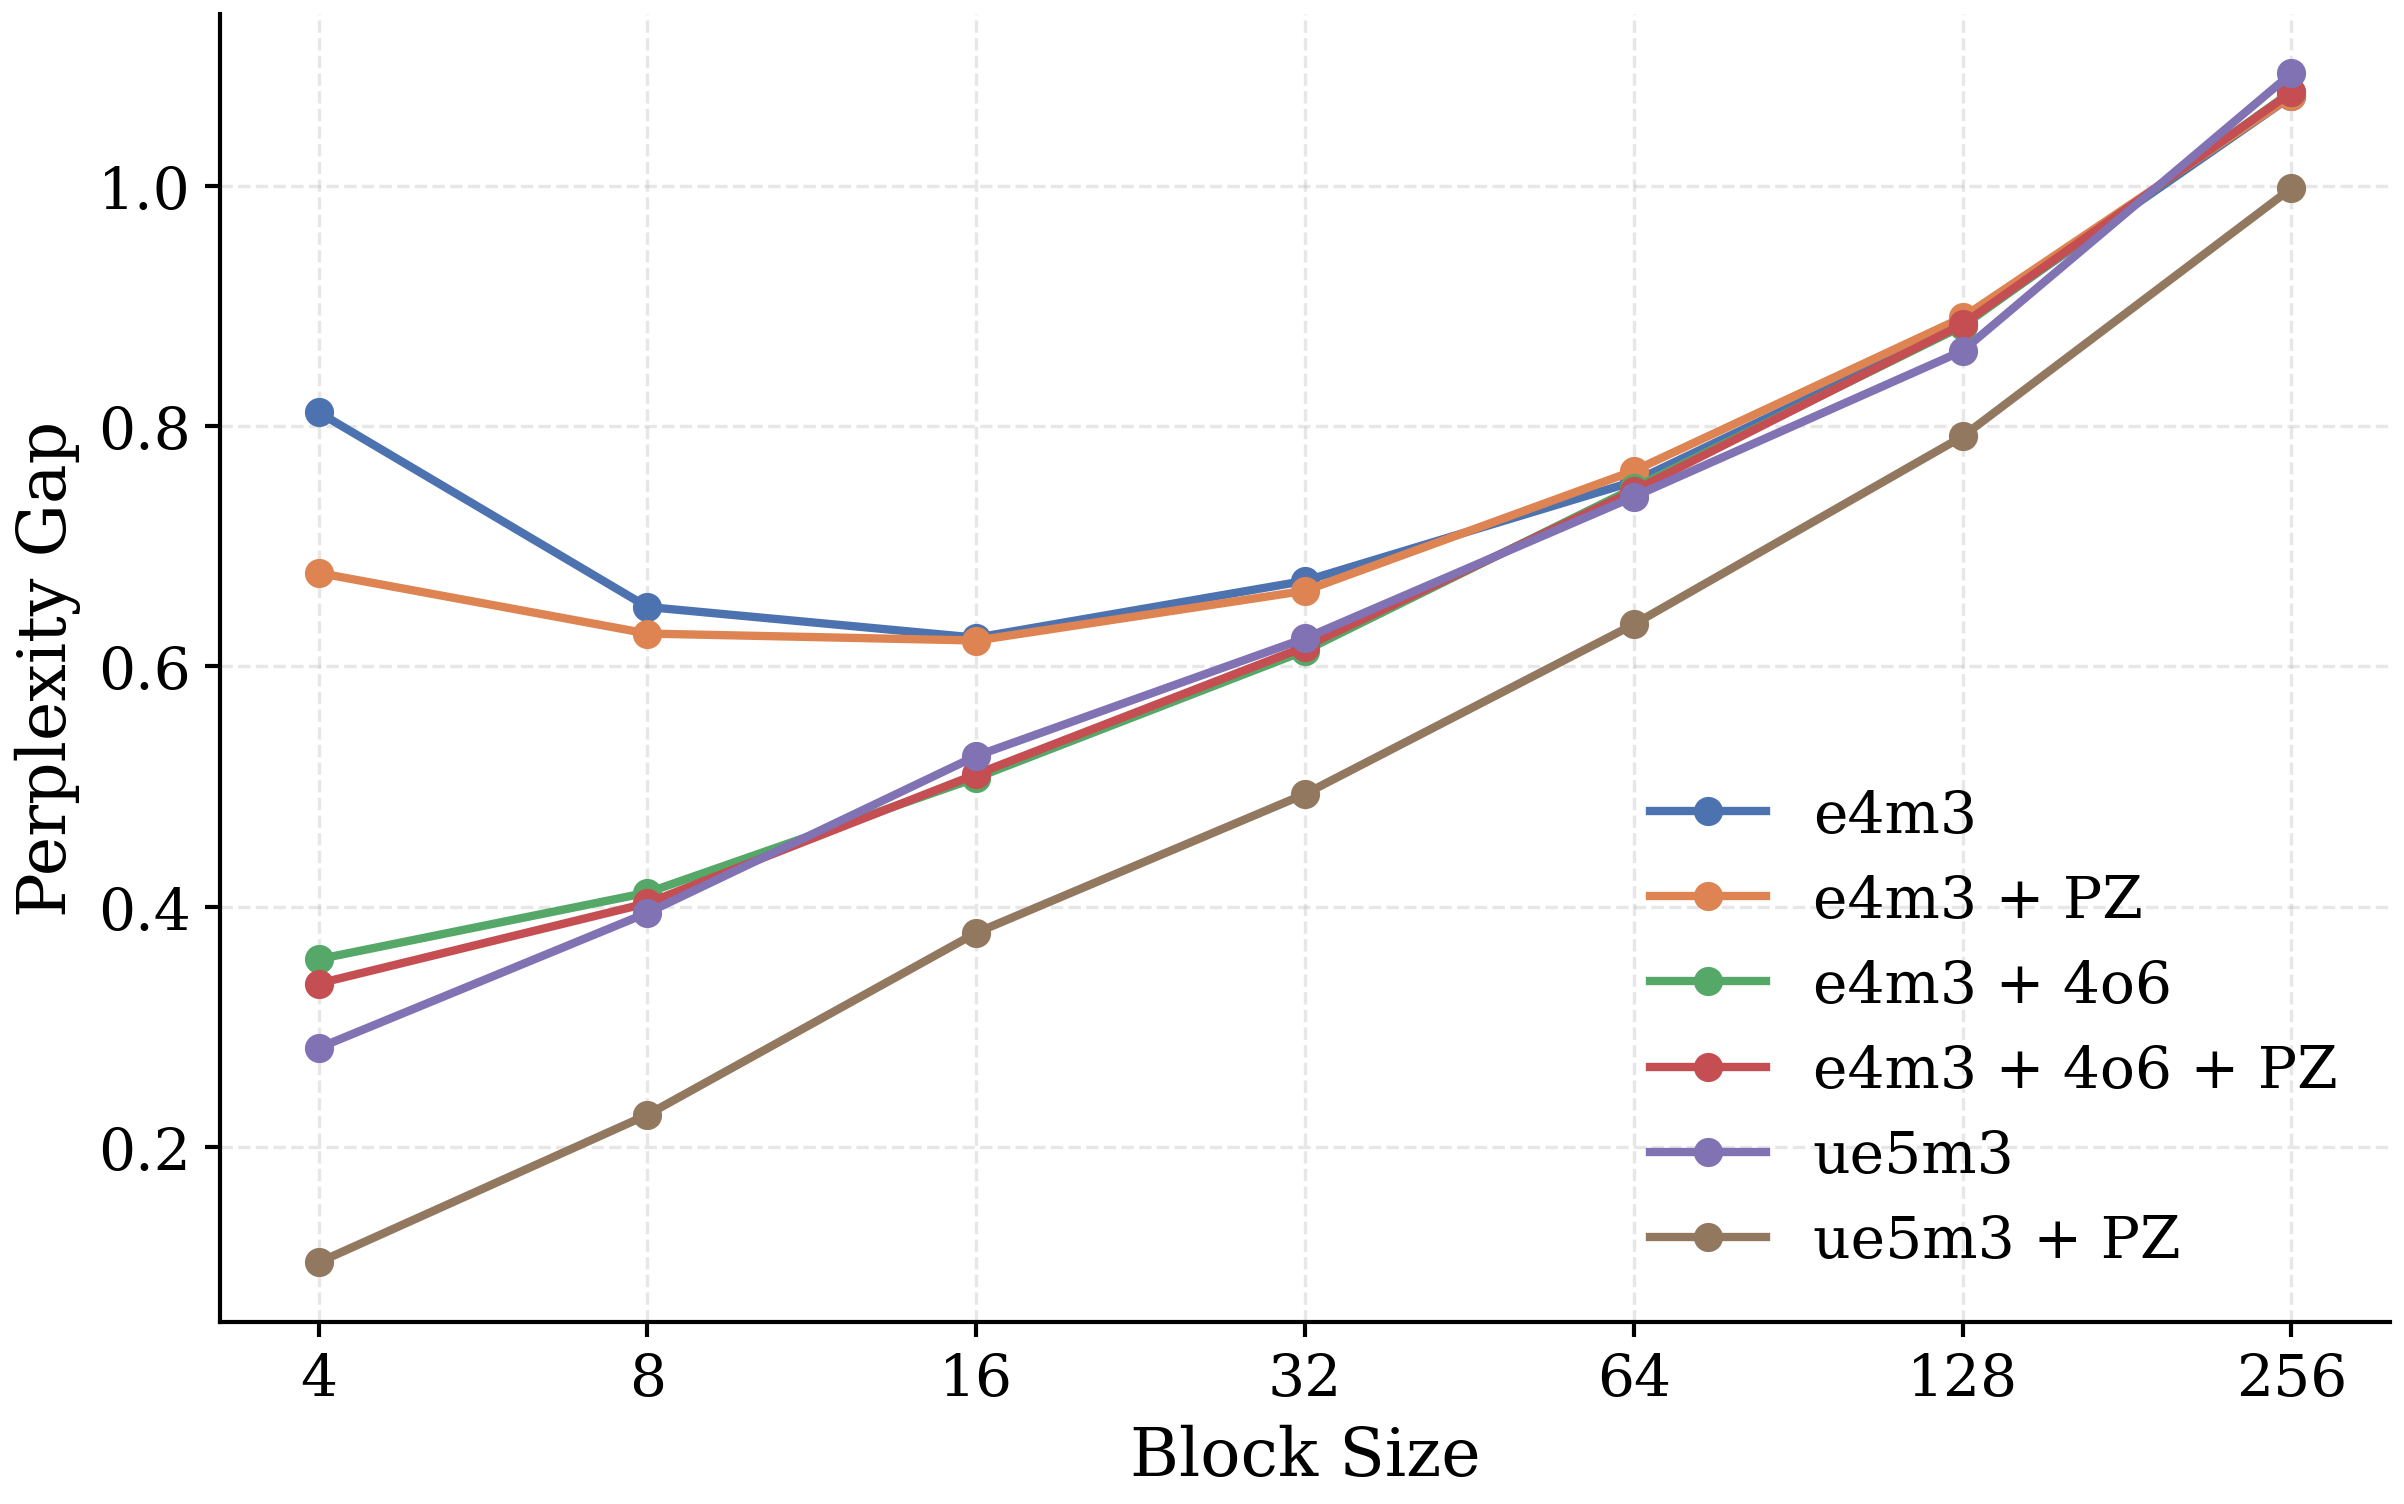
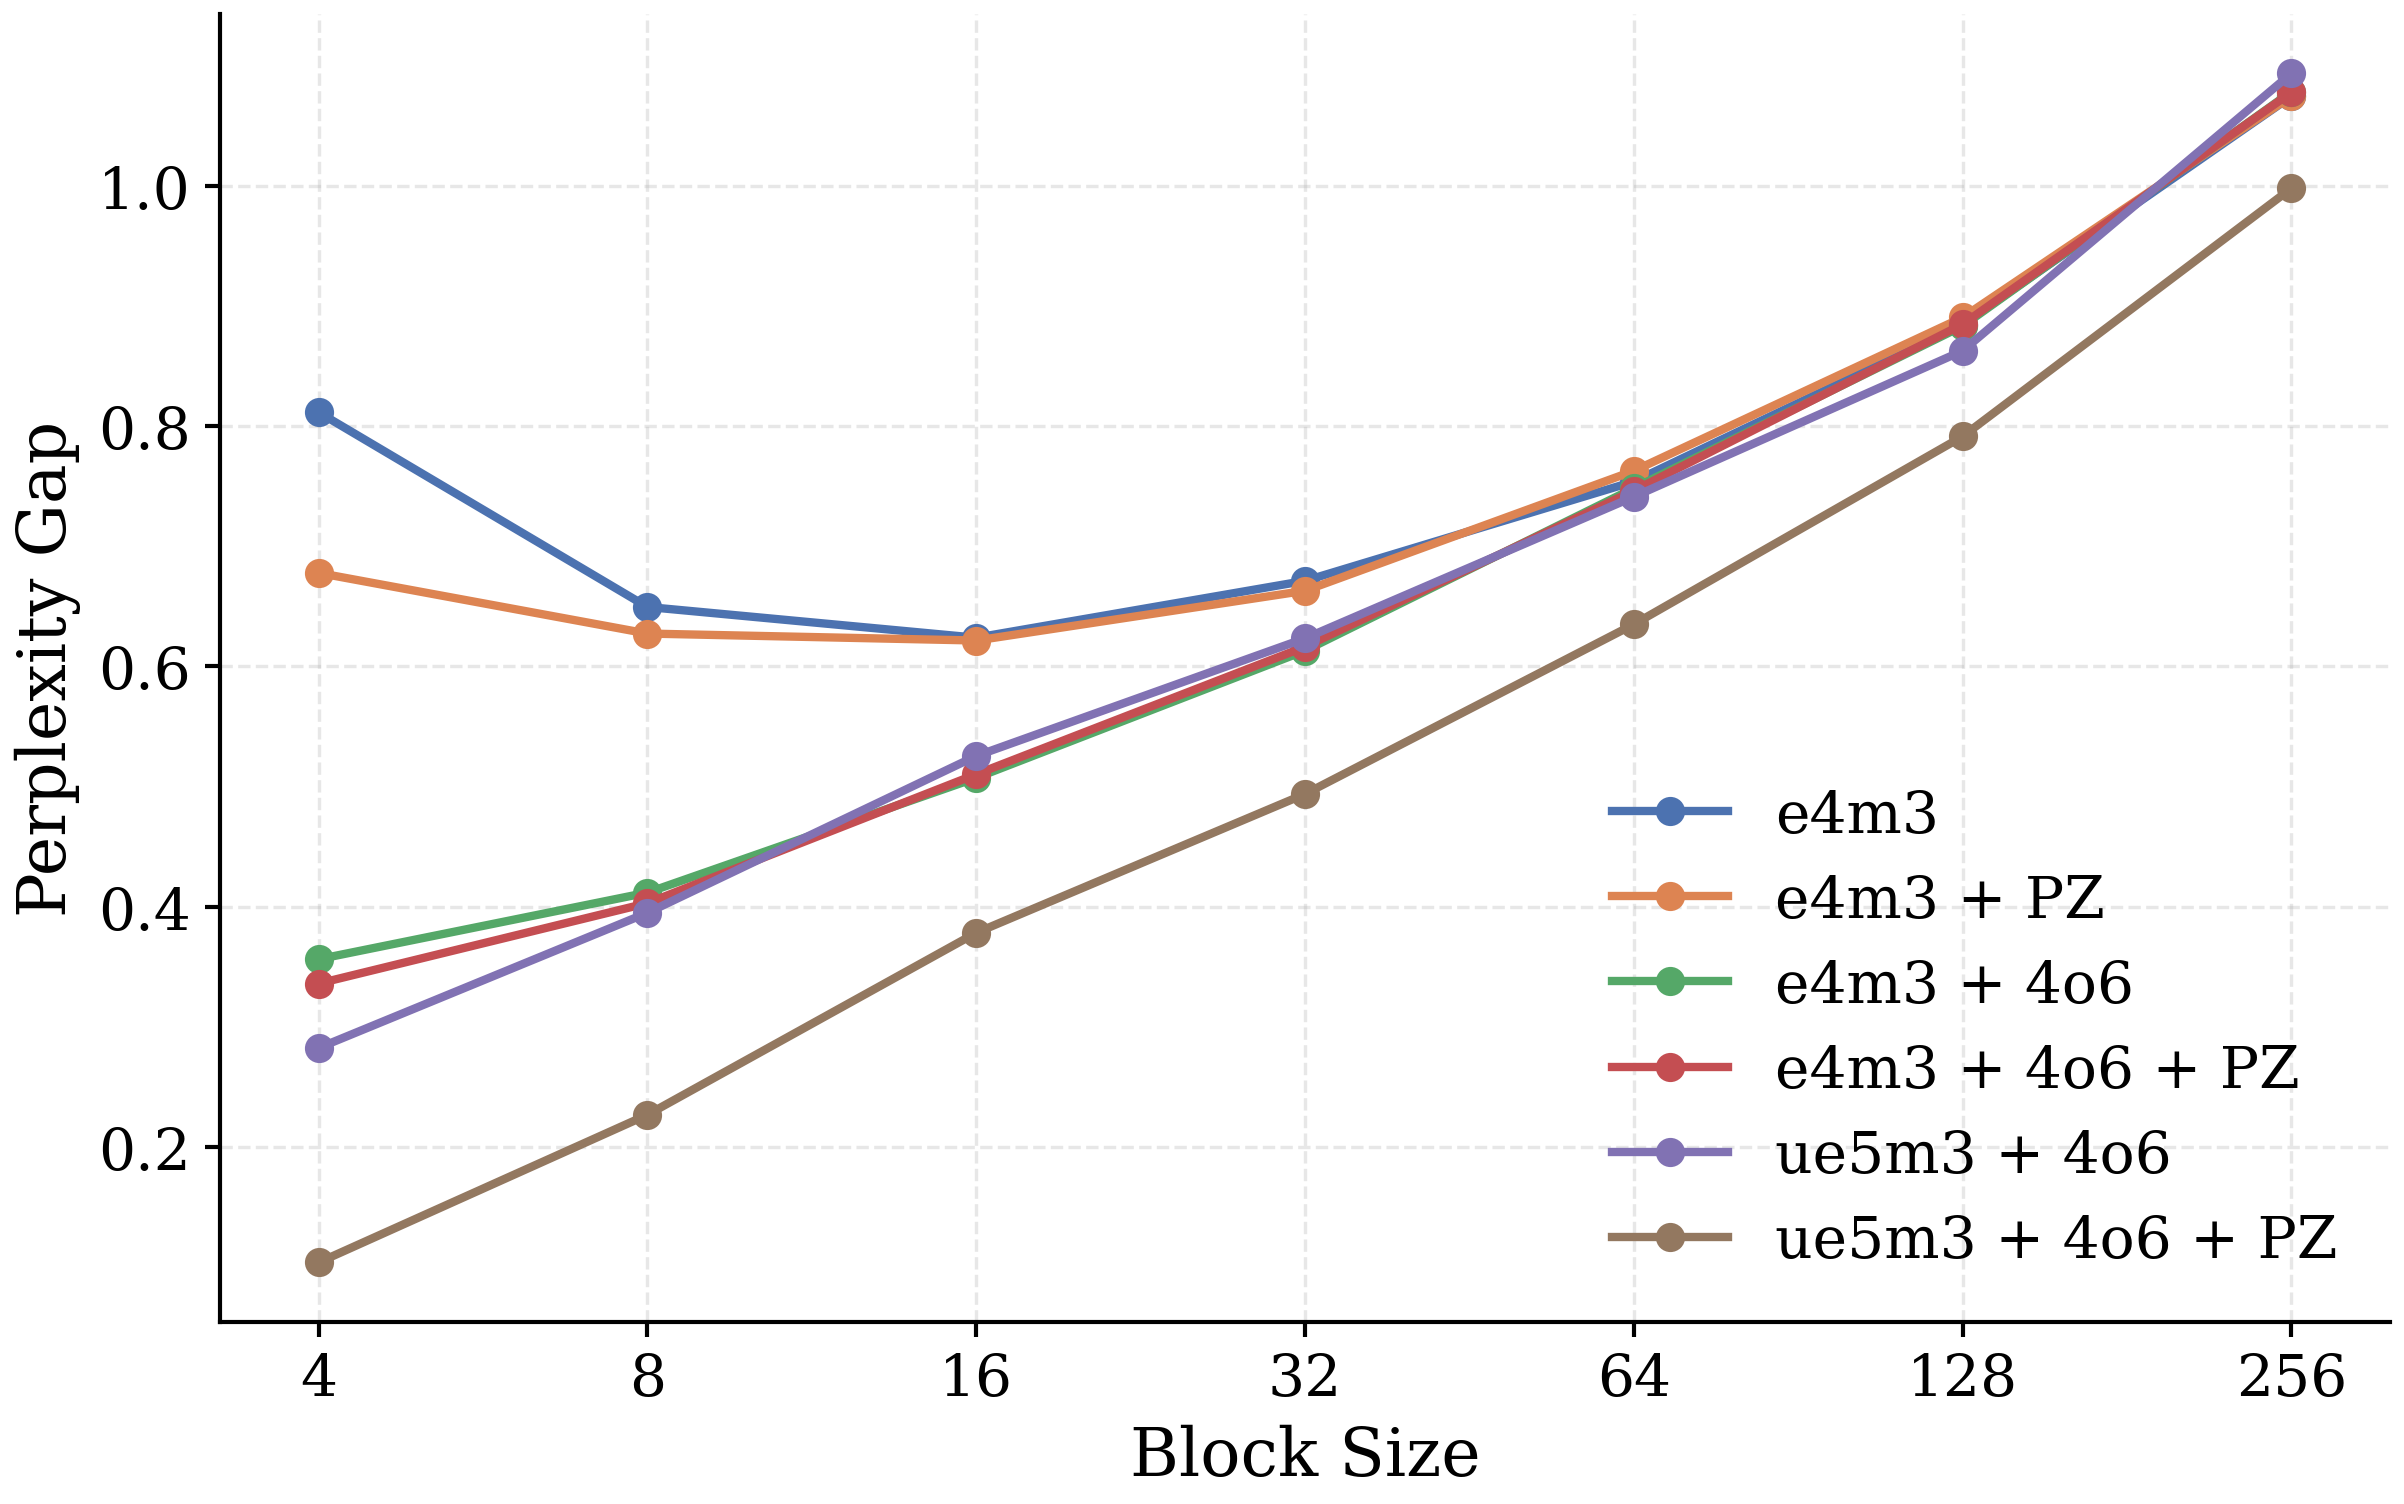
Remove phantom baseline rows and clean up tables

Changed region(s): [[0.6552, 0.5312, 0.9671, 0.7188], [0.6552, 0.8125, 0.9671, 0.8438], [0.6864, 0.75, 0.9047, 0.7812]]

diff --git a/README.md b/README.md
@@ -91,46 +91,46 @@ This section is automatically updated by the evaluation script after each run. D
 
 ### DeepSeek
 
-|                 |   Baseline |   BS=4 |   BS=8 |   BS=16 |   BS=32 |   BS=64 |   BS=128 |   BS=256 |
-|:----------------|-----------:|-------:|-------:|--------:|--------:|--------:|---------:|---------:|
-| e4m3            |      12.39 |   0.4  |   0.52 |    0.65 |    0.82 |    0.99 |     1.19 |     1.51 |
-| e4m3 + PZ       |      12.39 |   0.4  |   0.52 |    0.66 |    0.82 |    0.98 |     1.19 |     1.51 |
-| e4m3 + 4o6      |      12.39 |   0.25 |   0.38 |    0.54 |    0.73 |    0.93 |     1.19 |     1.49 |
-| e4m3 + 4o6 + PZ |      12.39 |   0.25 |   0.39 |    0.54 |    0.74 |    0.94 |     1.19 |     1.49 |
-| ue5m3           |      12.39 |   0.32 |   0.48 |    0.64 |    0.82 |    0.97 |     1.22 |     1.53 |
-| ue5m3 + PZ      |      12.39 |   0.24 |   0.36 |    0.54 |    0.72 |    0.92 |     1.2  |     1.53 |
+|                  |   Baseline |   BS=4 |   BS=8 |   BS=16 |   BS=32 |   BS=64 |   BS=128 |   BS=256 |
+|:-----------------|-----------:|-------:|-------:|--------:|--------:|--------:|---------:|---------:|
+| e4m3             |      12.39 |   0.4  |   0.52 |    0.65 |    0.82 |    0.99 |     1.19 |     1.51 |
+| e4m3 + PZ        |      12.39 |   0.4  |   0.52 |    0.66 |    0.82 |    0.98 |     1.19 |     1.51 |
+| e4m3 + 4o6       |      12.39 |   0.25 |   0.38 |    0.54 |    0.73 |    0.93 |     1.19 |     1.49 |
+| e4m3 + 4o6 + PZ  |      12.39 |   0.25 |   0.39 |    0.54 |    0.74 |    0.94 |     1.19 |     1.49 |
+| ue5m3 + 4o6 + PZ |      12.39 |   0.24 |   0.36 |    0.54 |    0.72 |    0.92 |     1.2  |     1.53 |
+| ue5m3 + 4o6      |      12.39 |   0.32 |   0.48 |    0.64 |    0.82 |    0.97 |     1.22 |     1.53 |
 
 ### Granite
 
-|                 |   Baseline |   BS=4 |   BS=8 |   BS=16 |   BS=32 |   BS=64 |   BS=128 |   BS=256 |
-|:----------------|-----------:|-------:|-------:|--------:|--------:|--------:|---------:|---------:|
-| e4m3            |       4.91 |   1.06 |   0.89 |    0.83 |    0.86 |    0.96 |     1.13 |     1.5  |
-| e4m3 + PZ       |       4.91 |   0.96 |   0.88 |    0.83 |    0.87 |    0.96 |     1.13 |     1.5  |
-| e4m3 + 4o6      |       4.91 |   0.62 |   0.67 |    0.75 |    0.88 |    0.97 |     1.13 |     1.48 |
-| e4m3 + 4o6 + PZ |       4.91 |   0.62 |   0.67 |    0.75 |    0.89 |    0.97 |     1.13 |     1.48 |
-| ue5m3           |       4.91 |   0.16 |   0.23 |    0.3  |    0.38 |    0.57 |     0.79 |     1.19 |
-| ue5m3 + PZ      |       4.91 |   0.11 |   0.17 |    0.25 |    0.36 |    0.57 |     0.77 |     1.23 |
+|                  |   Baseline |   BS=4 |   BS=8 |   BS=16 |   BS=32 |   BS=64 |   BS=128 |   BS=256 |
+|:-----------------|-----------:|-------:|-------:|--------:|--------:|--------:|---------:|---------:|
+| e4m3             |       4.91 |   1.06 |   0.89 |    0.83 |    0.86 |    0.96 |     1.13 |     1.5  |
+| e4m3 + PZ        |       4.91 |   0.96 |   0.88 |    0.83 |    0.87 |    0.96 |     1.13 |     1.5  |
+| e4m3 + 4o6       |       4.91 |   0.62 |   0.67 |    0.75 |    0.88 |    0.97 |     1.13 |     1.48 |
+| e4m3 + 4o6 + PZ  |       4.91 |   0.62 |   0.67 |    0.75 |    0.89 |    0.97 |     1.13 |     1.48 |
+| ue5m3 + 4o6 + PZ |       4.91 |   0.11 |   0.17 |    0.25 |    0.36 |    0.57 |     0.77 |     1.23 |
+| ue5m3 + 4o6      |       4.91 |   0.16 |   0.23 |    0.3  |    0.38 |    0.57 |     0.79 |     1.19 |
 
 ### Llama
 
-|                 |   Baseline |   BS=4 |   BS=8 |   BS=16 |   BS=32 |   BS=64 |   BS=128 |   BS=256 |
-|:----------------|-----------:|-------:|-------:|--------:|--------:|--------:|---------:|---------:|
-| e4m3            |       6.33 |   0.81 |   0.65 |    0.62 |    0.67 |    0.75 |     0.88 |     1.07 |
-| e4m3 + PZ       |       6.33 |   0.68 |   0.63 |    0.62 |    0.66 |    0.76 |     0.89 |     1.07 |
-| e4m3 + 4o6      |       6.33 |   0.36 |   0.41 |    0.51 |    0.61 |    0.75 |     0.88 |     1.08 |
-| e4m3 + 4o6 + PZ |       6.33 |   0.34 |   0.4  |    0.51 |    0.62 |    0.75 |     0.88 |     1.08 |
-| ue5m3           |       6.33 |   0.28 |   0.39 |    0.53 |    0.62 |    0.74 |     0.86 |     1.09 |
-| ue5m3 + PZ      |       6.33 |   0.1  |   0.23 |    0.38 |    0.49 |    0.63 |     0.79 |     1    |
+|                  |   Baseline |   BS=4 |   BS=8 |   BS=16 |   BS=32 |   BS=64 |   BS=128 |   BS=256 |
+|:-----------------|-----------:|-------:|-------:|--------:|--------:|--------:|---------:|---------:|
+| e4m3             |       6.33 |   0.81 |   0.65 |    0.62 |    0.67 |    0.75 |     0.88 |     1.07 |
+| e4m3 + PZ        |       6.33 |   0.68 |   0.63 |    0.62 |    0.66 |    0.76 |     0.89 |     1.07 |
+| e4m3 + 4o6       |       6.33 |   0.36 |   0.41 |    0.51 |    0.61 |    0.75 |     0.88 |     1.08 |
+| e4m3 + 4o6 + PZ  |       6.33 |   0.34 |   0.4  |    0.51 |    0.62 |    0.75 |     0.88 |     1.08 |
+| ue5m3 + 4o6 + PZ |       6.33 |   0.1  |   0.23 |    0.38 |    0.49 |    0.63 |     0.79 |     1    |
+| ue5m3 + 4o6      |       6.33 |   0.28 |   0.39 |    0.53 |    0.62 |    0.74 |     0.86 |     1.09 |
 
 ### Qwen
 
-|                 |   Baseline |   BS=4 |   BS=8 |   BS=16 |   BS=32 |   BS=64 |   BS=128 |   BS=256 |
-|:----------------|-----------:|-------:|-------:|--------:|--------:|--------:|---------:|---------:|
-| e4m3            |       4.77 |   0.47 |   0.49 |    0.56 |    0.65 |    0.81 |     1.04 |     1.49 |
-| e4m3 + 4o6      |       4.77 |   0.86 |   0.95 |    1.06 |    1.19 |    1.37 |     1.62 |     2.05 |
-| e4m3 + 4o6 + PZ |       4.77 |   0.85 |   0.93 |    1.05 |    1.19 |    1.37 |     1.62 |     2.06 |
-| ue5m3           |       4.77 |   0.86 |   0.98 |    1.09 |    1.22 |    1.37 |     1.64 |     2.1  |
-| ue5m3 + PZ      |       4.77 |   0.78 |   0.9  |    1.03 |    1.18 |    1.37 |     1.64 |     2.09 |
+|                  |   Baseline |   BS=4 |   BS=8 |   BS=16 |   BS=32 |   BS=64 |   BS=128 |   BS=256 |
+|:-----------------|-----------:|-------:|-------:|--------:|--------:|--------:|---------:|---------:|
+| e4m3             |       4.77 |   0.47 |   0.49 |    0.56 |    0.65 |    0.81 |     1.04 |     1.49 |
+| e4m3 + 4o6       |       4.77 |   0.86 |   0.95 |    1.06 |    1.19 |    1.37 |     1.62 |     2.05 |
+| e4m3 + 4o6 + PZ  |       4.77 |   0.85 |   0.93 |    1.05 |    1.19 |    1.37 |     1.62 |     2.06 |
+| ue5m3 + 4o6 + PZ |       4.77 |   0.78 |   0.9  |    1.03 |    1.18 |    1.37 |     1.64 |     2.09 |
+| ue5m3 + 4o6      |       4.77 |   0.86 |   0.98 |    1.09 |    1.22 |    1.37 |     1.64 |     2.1  |
 
 ### Graphs
 <table>
